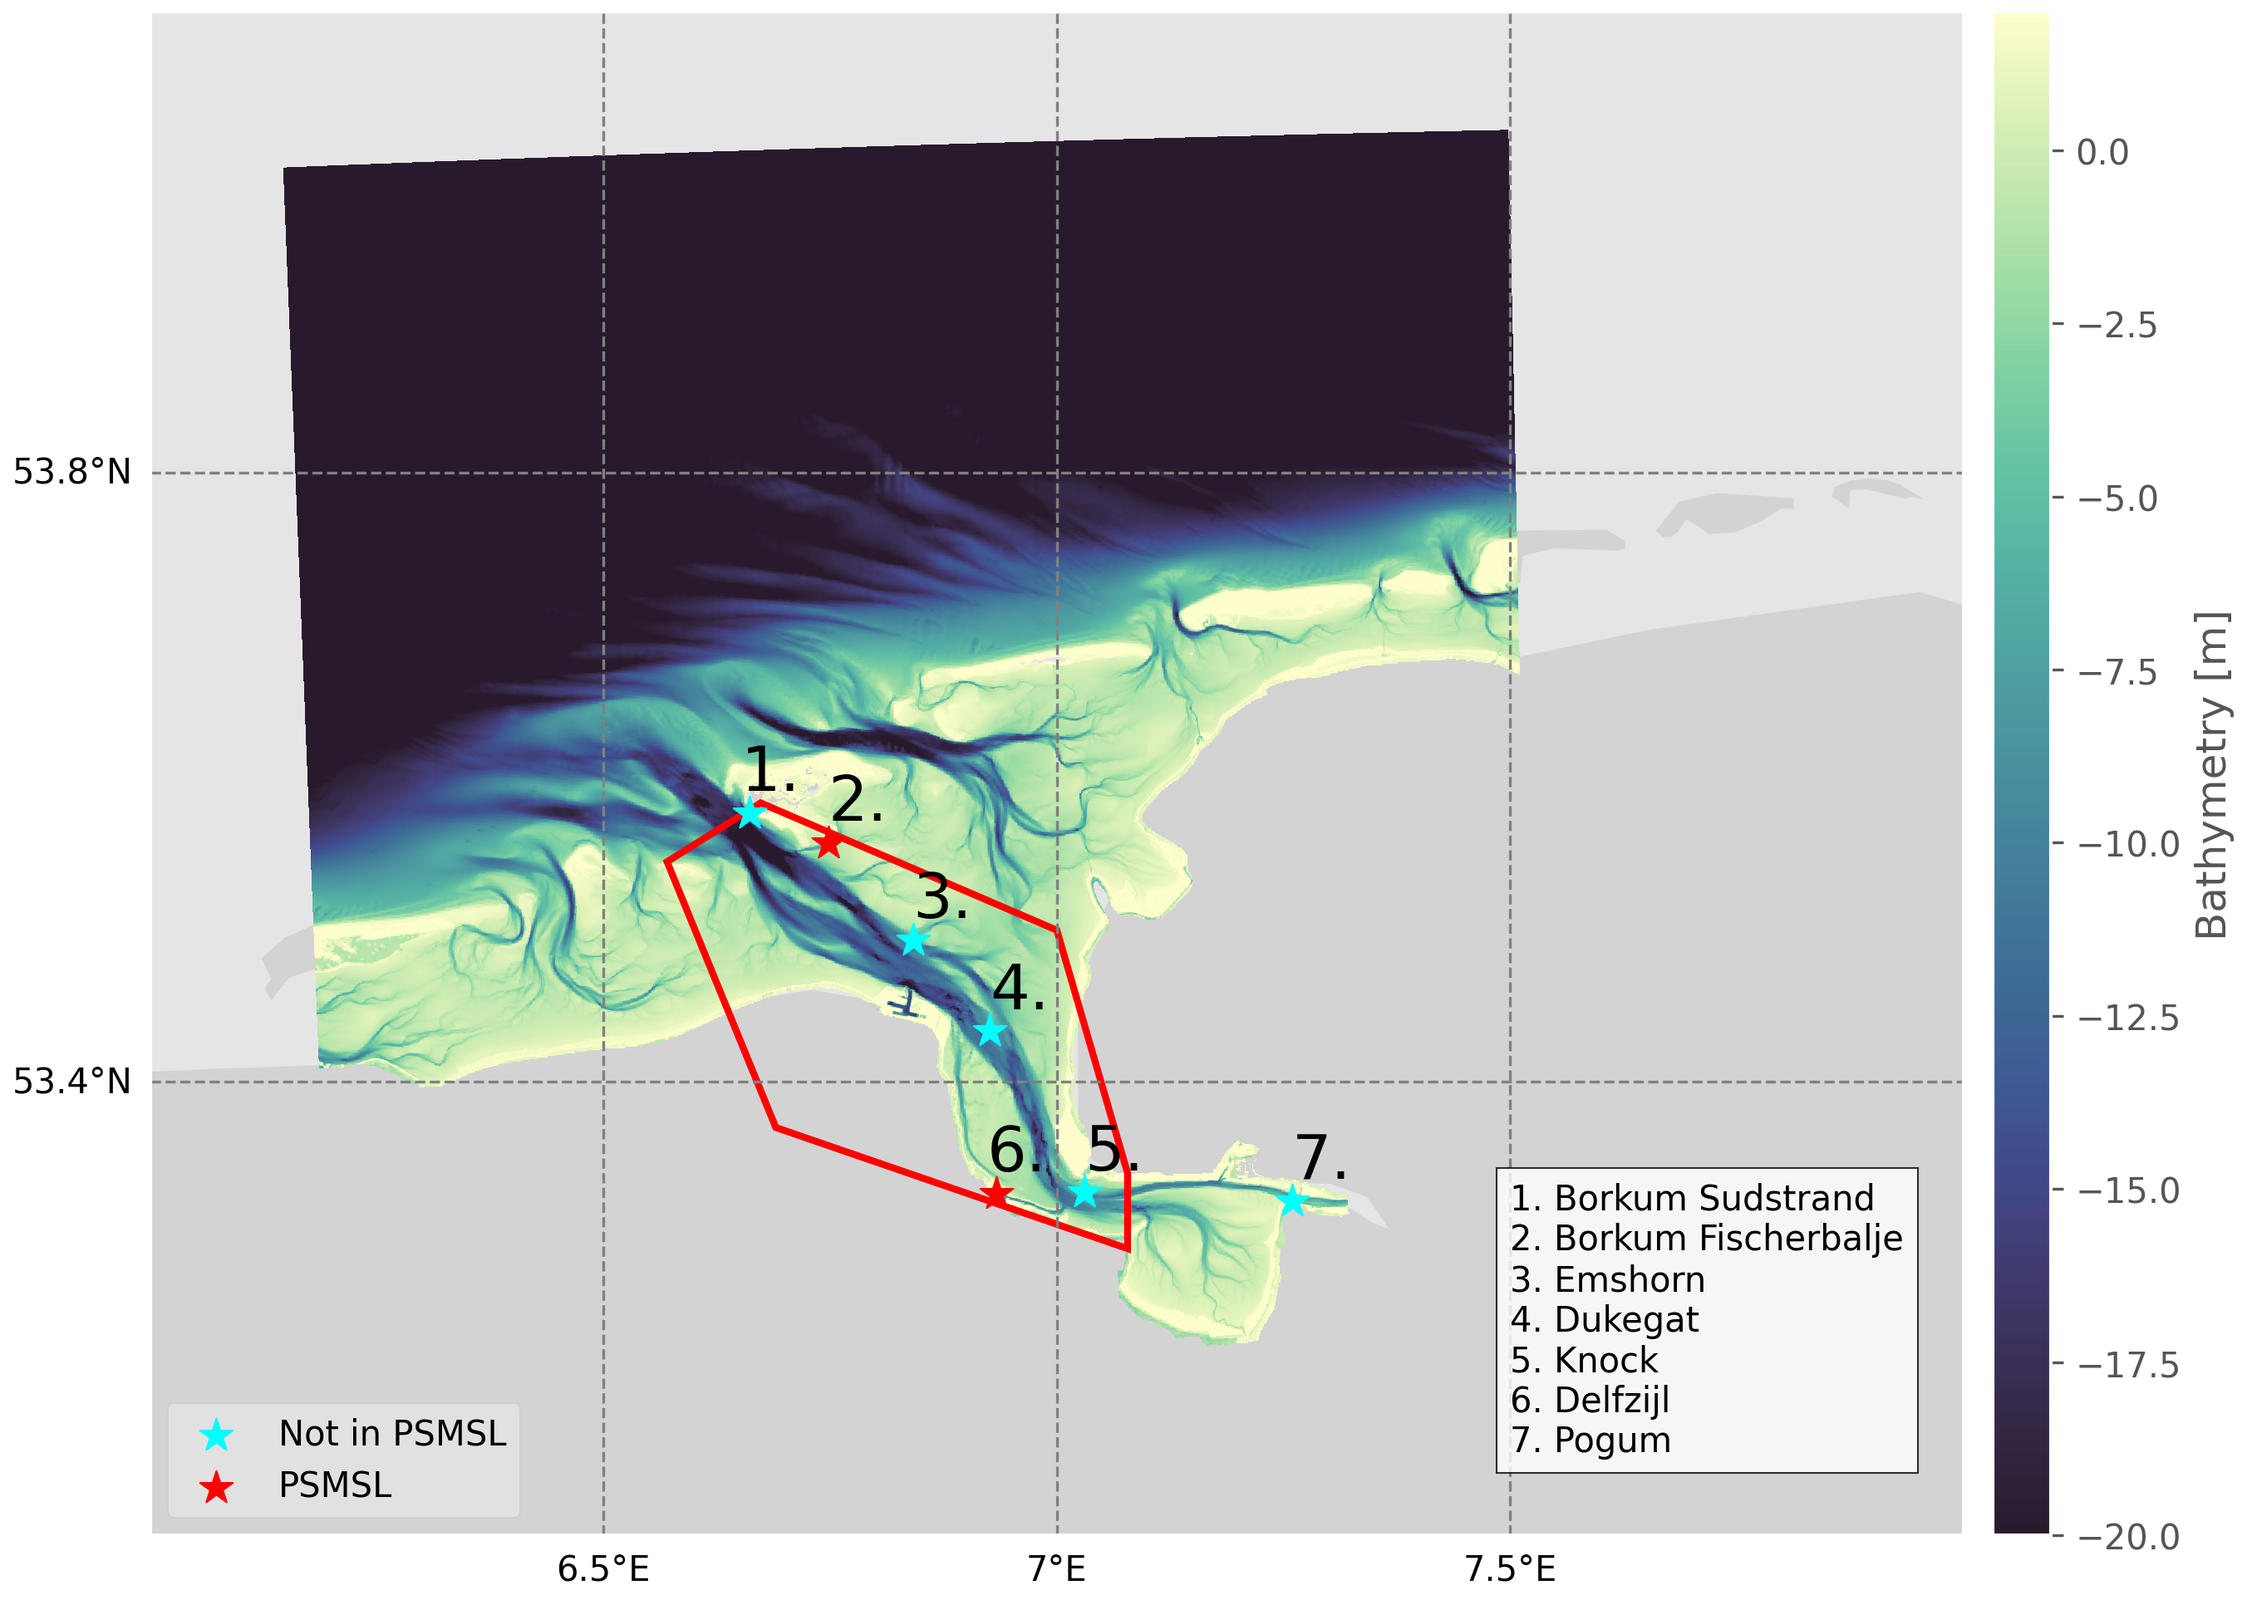
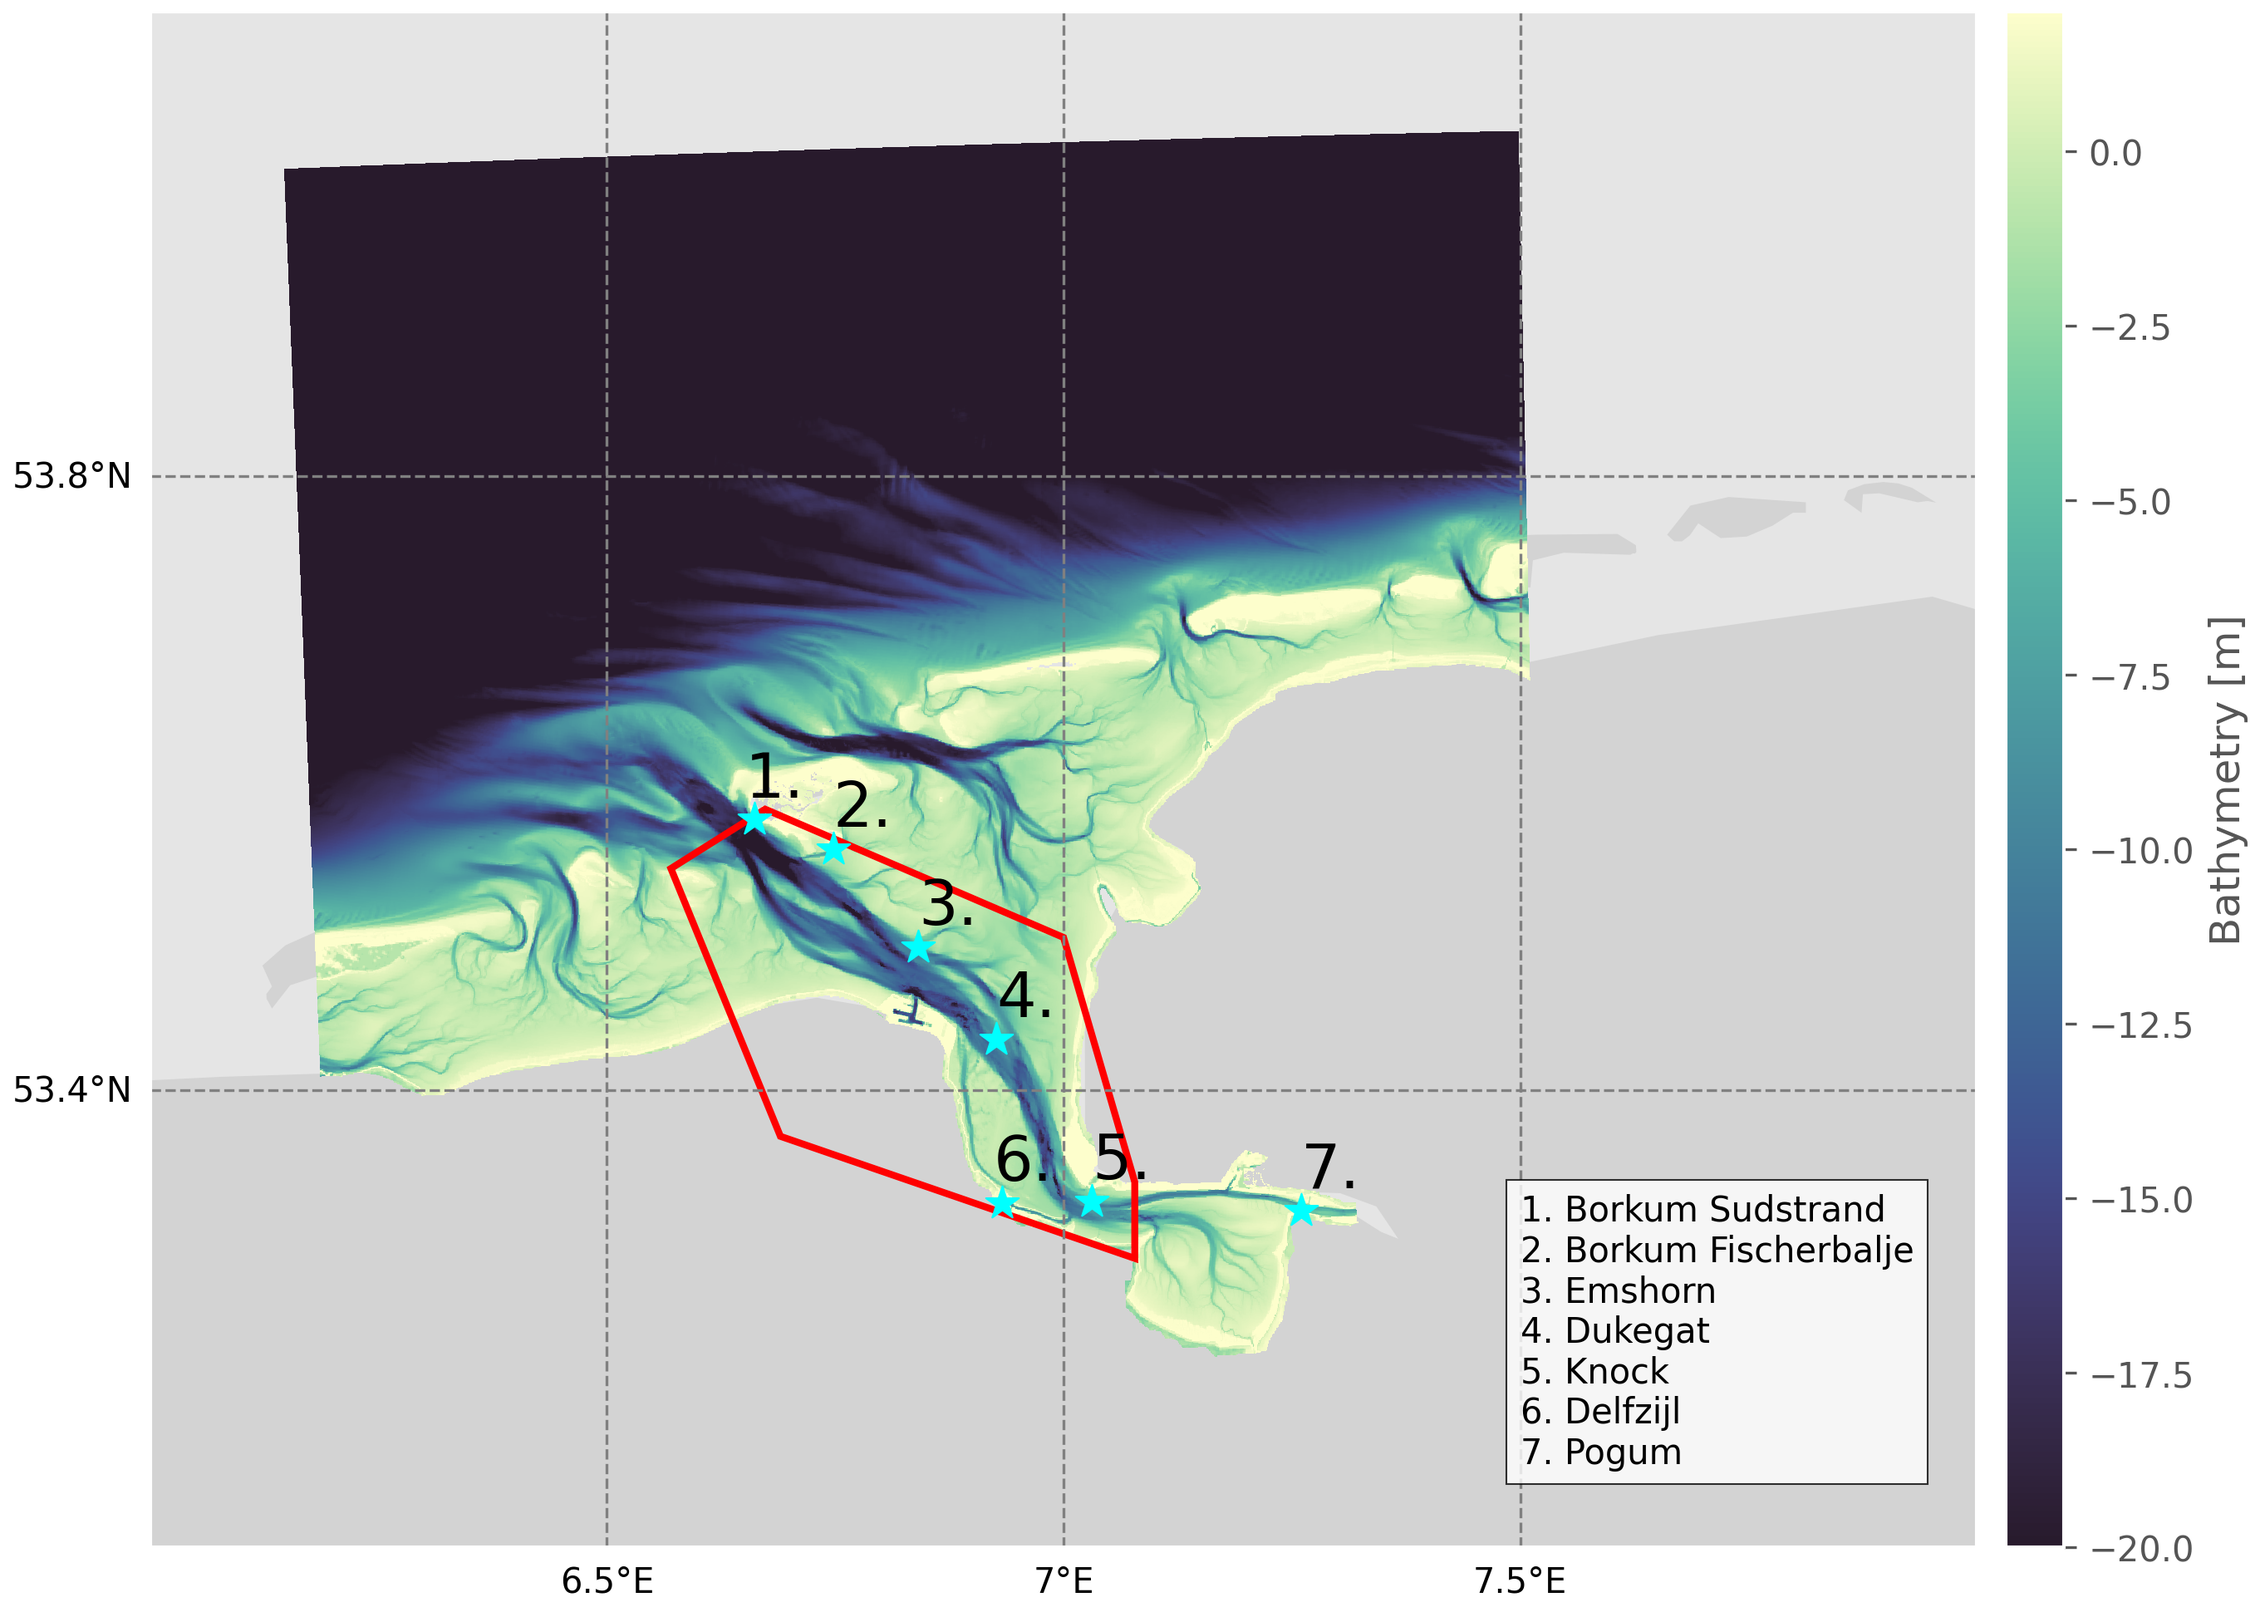
removed PSMSL distinction figure 1

diff --git a/scripts/visualization/Figure1.py b/scripts/visualization/Figure1.py
@@ -57,12 +57,12 @@ def main():
     fig = plt.figure(figsize=(11.69,8.27))
     ax = fig.add_subplot(1, 1, 1, projection=ccrs.Mercator(central_longitude=0))
     ax.scatter(lons, lats, c='cyan', s=100, marker='*', label='Not in PSMSL', transform=ccrs.PlateCarree(), zorder=10)
-    ax.scatter(PSMSL_lons, PSMSL_lats, c='r', s=100, marker='*', label='PSMSL',  transform=ccrs.PlateCarree(), zorder=10)
+    ax.scatter(PSMSL_lons, PSMSL_lats, c='cyan', s=100, marker='*', label='PSMSL',  transform=ccrs.PlateCarree(), zorder=10)
     bathy_im = plot_bathymetry_ems(ax, downsampling_factor=8)
     ax.add_patch(poly_enclosed)
     ax.add_feature(cfeature.LAND, facecolor='lightgray')
     #ax.coastlines()
-    ax.legend(loc='lower left')
+    #ax.legend(loc='lower left')
     
     dy = 0.015
     fs = 18

diff --git a/scripts/analysis/DCSM_Fourier_double_difference_friction.py b/scripts/analysis/DCSM_Fourier_double_difference_friction.py
@@ -69,7 +69,7 @@ def spatial_map(x, y, z, fig=None, ax=None, vmin=None, vmax=None, cmap=None, alp
     ax.set_title(title)
     fig.canvas.callbacks.connect('pick_event', on_pick)
     if savename != '':
-        fig.savefig('/Users/kbhaakman/Desktop/{}'.format(savename), dpi=300, bbox_inches='tight', pad_inches=0.05)
+        fig.savefig('../../figures/{}'.format(savename), dpi=300, bbox_inches='tight', pad_inches=0.05)
     return fig, ax
 
 
